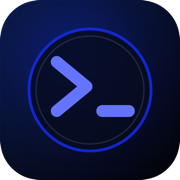
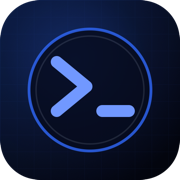
Revert "Set final vivid blue accent"
This reverts commit 72e392f1f1f6dbaa3eb9e3df986e4c3061a32288.

diff --git a/avatar.css b/avatar.css
@@ -19,23 +19,23 @@
   background:
     radial-gradient(
       circle at 32% 24%,
-      rgba(101, 116, 255, 0.26),
+      rgba(126, 157, 255, 0.22),
       transparent 38%
     ),
     linear-gradient(
       145deg,
-      rgba(21, 46, 255, 0.2),
+      rgba(49, 107, 255, 0.16),
       rgba(3, 5, 14, 0.9)
     );
 
-  border: 1px solid rgba(21, 46, 255, 0.96);
+  border: 1px solid rgba(49, 107, 255, 0.9);
   border-radius: 50%;
 
   box-shadow:
-    0 0 0 1px rgba(21, 46, 255, 0.1),
-    0 0 22px rgba(21, 46, 255, 0.34),
+    0 0 0 1px rgba(49, 107, 255, 0.07),
+    0 0 20px rgba(49, 107, 255, 0.24),
     0 10px 25px rgba(0, 0, 0, 0.42),
-    inset 0 0 20px rgba(21, 46, 255, 0.18),
+    inset 0 0 20px rgba(49, 107, 255, 0.14),
     inset 0 1px 0 rgba(214, 225, 255, 0.18);
 
   transition:
@@ -53,7 +53,7 @@
 
   background: radial-gradient(
     circle,
-    rgba(21, 46, 255, 0.46),
+    rgba(49, 107, 255, 0.34),
     transparent 66%
   );
   border-radius: inherit;
@@ -73,7 +73,7 @@
   border: 1px solid rgba(190, 207, 255, 0.14);
   border-radius: inherit;
 
-  box-shadow: inset 0 0 12px rgba(21, 46, 255, 0.16);
+  box-shadow: inset 0 0 12px rgba(49, 107, 255, 0.12);
   pointer-events: none;
 }
 
@@ -81,14 +81,14 @@
   --terminal-size: 112px;
   --terminal-glyph-size: 72%;
 
-  border-color: rgba(21, 46, 255, 1);
+  border-color: rgba(49, 107, 255, 0.98);
 
   box-shadow:
-    0 0 0 1px rgba(21, 46, 255, 0.16),
-    0 0 30px rgba(21, 46, 255, 0.52),
-    0 0 68px rgba(21, 46, 255, 0.25),
+    0 0 0 1px rgba(49, 107, 255, 0.12),
+    0 0 28px rgba(49, 107, 255, 0.4),
+    0 0 64px rgba(49, 107, 255, 0.18),
     0 18px 38px rgba(0, 0, 0, 0.5),
-    inset 0 0 30px rgba(21, 46, 255, 0.22),
+    inset 0 0 30px rgba(49, 107, 255, 0.17),
     inset 0 1px 0 rgba(214, 225, 255, 0.22);
 }
 
@@ -102,8 +102,8 @@
   color: var(--accent);
 
   filter:
-    drop-shadow(0 0 4px rgba(21, 46, 255, 0.95))
-    drop-shadow(0 0 13px rgba(21, 46, 255, 0.52));
+    drop-shadow(0 0 4px rgba(49, 107, 255, 0.86))
+    drop-shadow(0 0 12px rgba(49, 107, 255, 0.38));
 
   transform: translate(-4%, -2%);
 }
@@ -112,10 +112,10 @@
   border-color: var(--accent);
 
   box-shadow:
-    0 0 0 1px rgba(21, 46, 255, 0.18),
-    0 0 30px rgba(21, 46, 255, 0.54),
+    0 0 0 1px rgba(49, 107, 255, 0.14),
+    0 0 28px rgba(49, 107, 255, 0.42),
     0 12px 28px rgba(0, 0, 0, 0.42),
-    inset 0 0 22px rgba(21, 46, 255, 0.24);
+    inset 0 0 22px rgba(49, 107, 255, 0.18);
 
   transform: translateY(-1px);
 }

diff --git a/stuff.html b/stuff.html
@@ -11,21 +11,21 @@
   <title>404 — CMD-PRO</title>
 
   <meta name="theme-color" content="#05070a">
-  <link rel="icon" href="./favicon.svg?v=4" type="image/svg+xml">
-  <link rel="icon" href="./favicon-32.png?v=4" sizes="32x32" type="image/png">
-  <link rel="apple-touch-icon" href="./apple-touch-icon.png?v=4">
+  <link rel="icon" href="./favicon.svg?v=3" type="image/svg+xml">
+  <link rel="icon" href="./favicon-32.png?v=3" sizes="32x32" type="image/png">
+  <link rel="apple-touch-icon" href="./apple-touch-icon.png?v=3">
 
   <!-- Main site theme -->
-  <link rel="stylesheet" href="./style.css?v=6">
+  <link rel="stylesheet" href="./style.css?v=5">
 
   <!-- Stuff/error page layout -->
-  <link rel="stylesheet" href="./stuff.css?v=5">
+  <link rel="stylesheet" href="./stuff.css?v=4">
 
   <!-- Shared terminal avatar -->
-  <link rel="stylesheet" href="./avatar.css?v=4">
+  <link rel="stylesheet" href="./avatar.css?v=3">
 
   <!-- Shared interior page frame -->
-  <link rel="stylesheet" href="./interior.css?v=4">
+  <link rel="stylesheet" href="./interior.css?v=3">
 </head>
 
 <body class="error-page">

diff --git a/404.html b/404.html
@@ -11,21 +11,21 @@
   <title>404 — CMD-PRO</title>
 
   <meta name="theme-color" content="#05070a">
-  <link rel="icon" href="/favicon.svg?v=4" type="image/svg+xml">
-  <link rel="icon" href="/favicon-32.png?v=4" sizes="32x32" type="image/png">
-  <link rel="apple-touch-icon" href="/apple-touch-icon.png?v=4">
+  <link rel="icon" href="/favicon.svg?v=3" type="image/svg+xml">
+  <link rel="icon" href="/favicon-32.png?v=3" sizes="32x32" type="image/png">
+  <link rel="apple-touch-icon" href="/apple-touch-icon.png?v=3">
 
   <!-- Main site theme -->
-  <link rel="stylesheet" href="/style.css?v=6">
+  <link rel="stylesheet" href="/style.css?v=5">
 
   <!-- Stuff/error page layout -->
-  <link rel="stylesheet" href="/stuff.css?v=5">
+  <link rel="stylesheet" href="/stuff.css?v=4">
 
   <!-- Shared terminal avatar -->
-  <link rel="stylesheet" href="/avatar.css?v=4">
+  <link rel="stylesheet" href="/avatar.css?v=3">
 
   <!-- Shared interior page frame -->
-  <link rel="stylesheet" href="/interior.css?v=4">
+  <link rel="stylesheet" href="/interior.css?v=3">
 </head>
 
 <body class="error-page">

diff --git a/interior.css b/interior.css
@@ -15,12 +15,12 @@
 
   background:
     linear-gradient(
-      rgba(21, 46, 255, 0.024) 1px,
+      rgba(49, 107, 255, 0.02) 1px,
       transparent 1px
     ),
     linear-gradient(
       90deg,
-      rgba(21, 46, 255, 0.024) 1px,
+      rgba(49, 107, 255, 0.02) 1px,
       transparent 1px
     ),
     linear-gradient(
@@ -34,12 +34,12 @@
     28px 28px,
     auto;
 
-  border: 1px solid rgba(21, 46, 255, 0.24);
+  border: 1px solid rgba(49, 107, 255, 0.22);
   border-radius: 24px;
 
   box-shadow:
     0 34px 100px rgba(0, 0, 0, 0.55),
-    0 0 60px rgba(21, 46, 255, 0.1),
+    0 0 60px rgba(49, 107, 255, 0.08),
     inset 0 1px 0 rgba(200, 215, 255, 0.045);
 
   backdrop-filter: blur(16px);
@@ -58,7 +58,7 @@
 
   background: radial-gradient(
     ellipse,
-    rgba(21, 46, 255, 0.17),
+    rgba(49, 107, 255, 0.14),
     transparent 68%
   );
 
@@ -92,7 +92,7 @@
 .interior-card > header {
   padding-bottom: 22px;
 
-  border-bottom: 1px solid rgba(21, 46, 255, 0.16);
+  border-bottom: 1px solid rgba(49, 107, 255, 0.14);
 }
 
 .interior-card .blog-content,

diff --git a/blog.html b/blog.html
@@ -19,13 +19,13 @@
   <title>Logs — CMD-PRO</title>
 
   <meta name="theme-color" content="#05070a">
-  <link rel="icon" href="/favicon.svg?v=4" type="image/svg+xml">
-  <link rel="icon" href="/favicon-32.png?v=4" sizes="32x32" type="image/png">
-  <link rel="apple-touch-icon" href="/apple-touch-icon.png?v=4">
+  <link rel="icon" href="/favicon.svg?v=3" type="image/svg+xml">
+  <link rel="icon" href="/favicon-32.png?v=3" sizes="32x32" type="image/png">
+  <link rel="apple-touch-icon" href="/apple-touch-icon.png?v=3">
 
-  <link rel="stylesheet" href="/blog.css?v=6">
-  <link rel="stylesheet" href="/avatar.css?v=4">
-  <link rel="stylesheet" href="/interior.css?v=4">
+  <link rel="stylesheet" href="/blog.css?v=5">
+  <link rel="stylesheet" href="/avatar.css?v=3">
+  <link rel="stylesheet" href="/interior.css?v=3">
 
 </head>
 

diff --git a/style.css b/style.css
@@ -3,9 +3,9 @@
   --card: rgba(10, 16, 22, 0.9);
   --text: #eef3ff;
   --muted: #8792aa;
-  --accent: #152eff;
-  --accent-dark: rgba(21, 46, 255, 0.12);
-  --border: rgba(21, 46, 255, 0.2);
+  --accent: #316bff;
+  --accent-dark: rgba(49, 107, 255, 0.12);
+  --border: rgba(49, 107, 255, 0.2);
 }
 
 
@@ -40,12 +40,12 @@ body {
 
   background:
     linear-gradient(
-      rgba(21, 46, 255, 0.03) 1px,
+      rgba(49, 107, 255, 0.03) 1px,
       transparent 1px
     ),
     linear-gradient(
       90deg,
-      rgba(21, 46, 255, 0.03) 1px,
+      rgba(49, 107, 255, 0.03) 1px,
       transparent 1px
     ),
     radial-gradient(
@@ -78,7 +78,7 @@ body {
 
   box-shadow:
     0 30px 90px rgba(0, 0, 0, 0.55),
-    0 0 44px rgba(21, 46, 255, 0.09);
+    0 0 44px rgba(49, 107, 255, 0.07);
 
   backdrop-filter: blur(14px);
 }

diff --git a/blog/programming-gatekeeping.html b/blog/programming-gatekeeping.html
@@ -21,13 +21,13 @@
   </title>
 
   <meta name="theme-color" content="#05070a">
-  <link rel="icon" href="/favicon.svg?v=4" type="image/svg+xml">
-  <link rel="icon" href="/favicon-32.png?v=4" sizes="32x32" type="image/png">
-  <link rel="apple-touch-icon" href="/apple-touch-icon.png?v=4">
+  <link rel="icon" href="/favicon.svg?v=3" type="image/svg+xml">
+  <link rel="icon" href="/favicon-32.png?v=3" sizes="32x32" type="image/png">
+  <link rel="apple-touch-icon" href="/apple-touch-icon.png?v=3">
 
-  <link rel="stylesheet" href="/article.css?v=5">
-  <link rel="stylesheet" href="/avatar.css?v=4">
-  <link rel="stylesheet" href="/interior.css?v=4">
+  <link rel="stylesheet" href="/article.css?v=4">
+  <link rel="stylesheet" href="/avatar.css?v=3">
+  <link rel="stylesheet" href="/interior.css?v=3">
 
 </head>
 

diff --git a/blog.css b/blog.css
@@ -4,9 +4,9 @@
   --text: #eef3ff;
   --muted: #8792aa;
   --soft-text: #adb8ce;
-  --accent: #152eff;
-  --accent-dark: rgba(21, 46, 255, 0.12);
-  --border: rgba(21, 46, 255, 0.2);
+  --accent: #316bff;
+  --accent-dark: rgba(49, 107, 255, 0.12);
+  --border: rgba(49, 107, 255, 0.2);
 }
 
 * {
@@ -31,12 +31,12 @@ body {
 
   background:
     linear-gradient(
-      rgba(21, 46, 255, 0.03) 1px,
+      rgba(49, 107, 255, 0.03) 1px,
       transparent 1px
     ),
     linear-gradient(
       90deg,
-      rgba(21, 46, 255, 0.03) 1px,
+      rgba(49, 107, 255, 0.03) 1px,
       transparent 1px
     ),
     radial-gradient(
@@ -266,7 +266,7 @@ h1 {
 }
 
 .entry-link:hover {
-  border-color: rgba(21, 46, 255, 0.54);
+  border-color: rgba(49, 107, 255, 0.48);
 
   transform: translateY(-2px);
 

diff --git a/article.css b/article.css
@@ -4,8 +4,8 @@
   --text: #eef3ff;
   --muted: #8792aa;
   --soft-text: #adb8ce;
-  --accent: #152eff;
-  --border: rgba(21, 46, 255, 0.2);
+  --accent: #316bff;
+  --border: rgba(49, 107, 255, 0.2);
 }
 
 * {
@@ -32,12 +32,12 @@ body {
 
   background:
     linear-gradient(
-      rgba(21, 46, 255, 0.03) 1px,
+      rgba(49, 107, 255, 0.03) 1px,
       transparent 1px
     ),
     linear-gradient(
       90deg,
-      rgba(21, 46, 255, 0.03) 1px,
+      rgba(49, 107, 255, 0.03) 1px,
       transparent 1px
     ),
     radial-gradient(
@@ -241,7 +241,7 @@ blockquote {
   font-family: monospace;
   font-size: 0.9rem;
 
-  background: rgba(21, 46, 255, 0.055);
+  background: rgba(49, 107, 255, 0.045);
 
   border: 1px solid var(--border);
   border-radius: 8px;

diff --git a/index.html b/index.html
@@ -16,12 +16,12 @@
   <title>CMD-PRO</title>
 
   <meta name="theme-color" content="#05070a">
-  <link rel="icon" href="/favicon.svg?v=4" type="image/svg+xml">
-  <link rel="icon" href="/favicon-32.png?v=4" sizes="32x32" type="image/png">
-  <link rel="apple-touch-icon" href="/apple-touch-icon.png?v=4">
+  <link rel="icon" href="/favicon.svg?v=3" type="image/svg+xml">
+  <link rel="icon" href="/favicon-32.png?v=3" sizes="32x32" type="image/png">
+  <link rel="apple-touch-icon" href="/apple-touch-icon.png?v=3">
 
-  <link rel="stylesheet" href="./style.css?v=11">
-  <link rel="stylesheet" href="./avatar.css?v=4">
+  <link rel="stylesheet" href="./style.css?v=10">
+  <link rel="stylesheet" href="./avatar.css?v=3">
 </head>
 
 <body>

diff --git a/stuff.css b/stuff.css
@@ -89,7 +89,7 @@ body.error-page {
   letter-spacing: -18px;
 
   text-shadow:
-    0 0 56px rgba(21, 46, 255, 0.46);
+    0 0 52px rgba(49, 107, 255, 0.34);
 }
 
 .error-info {
